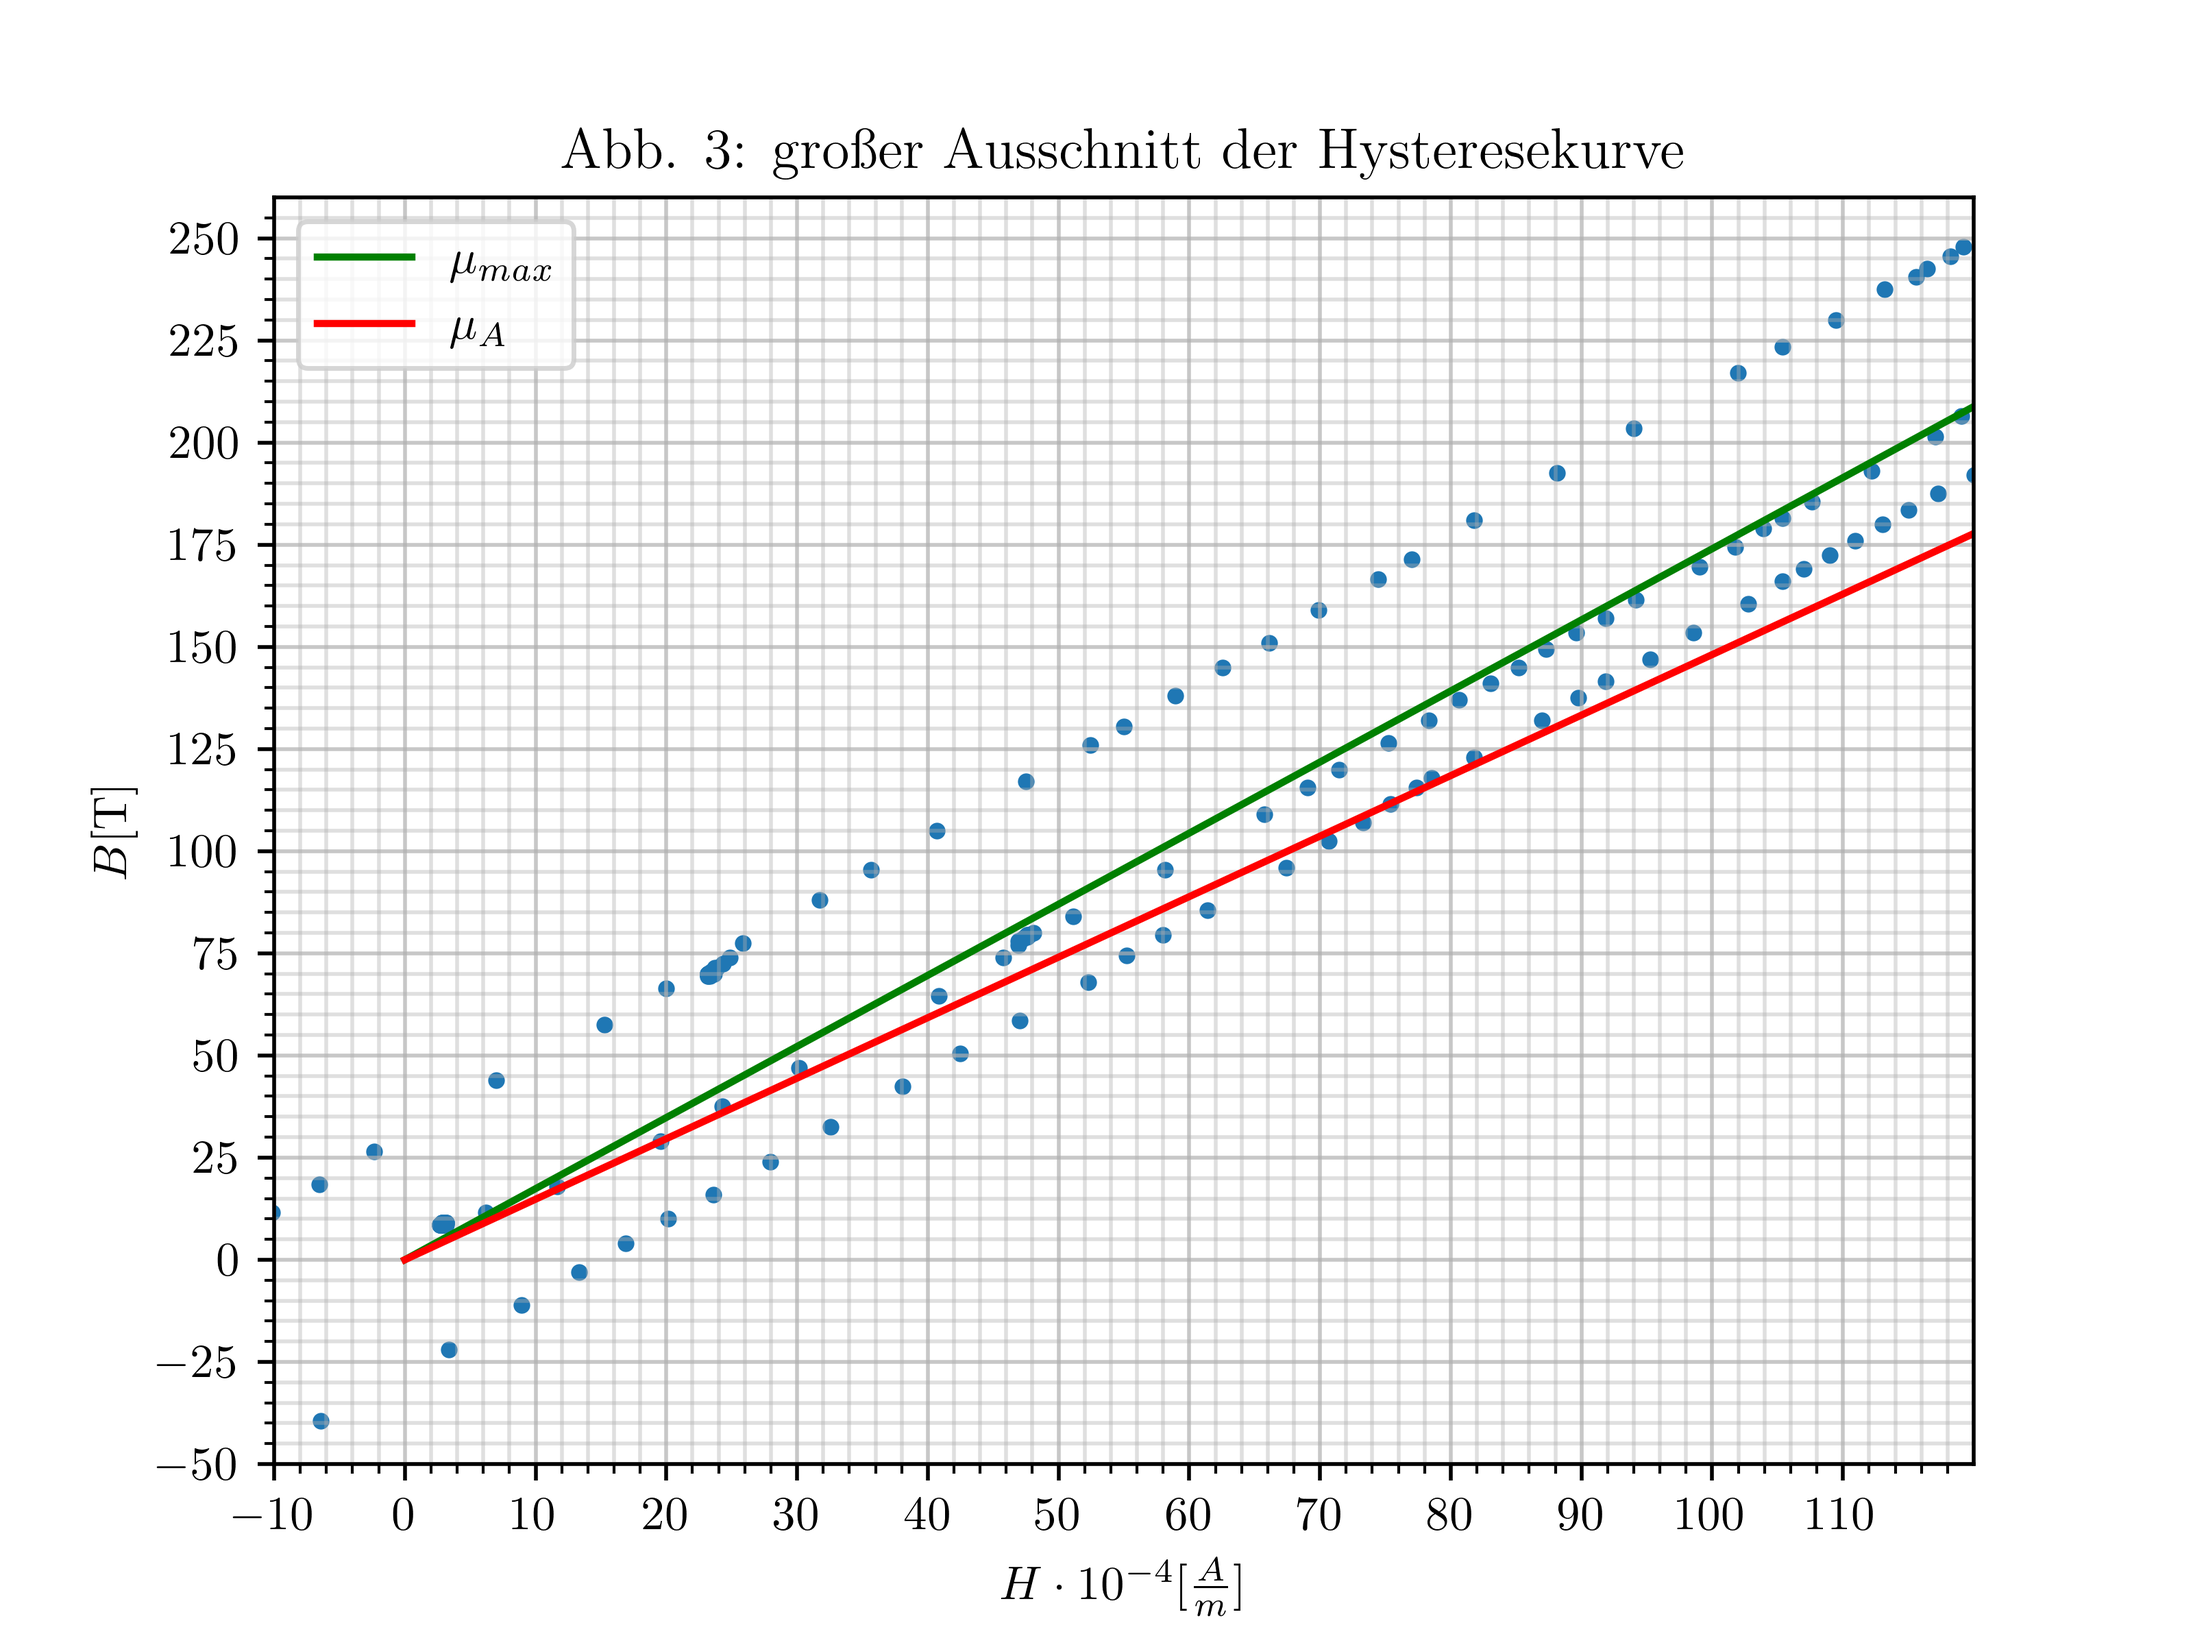
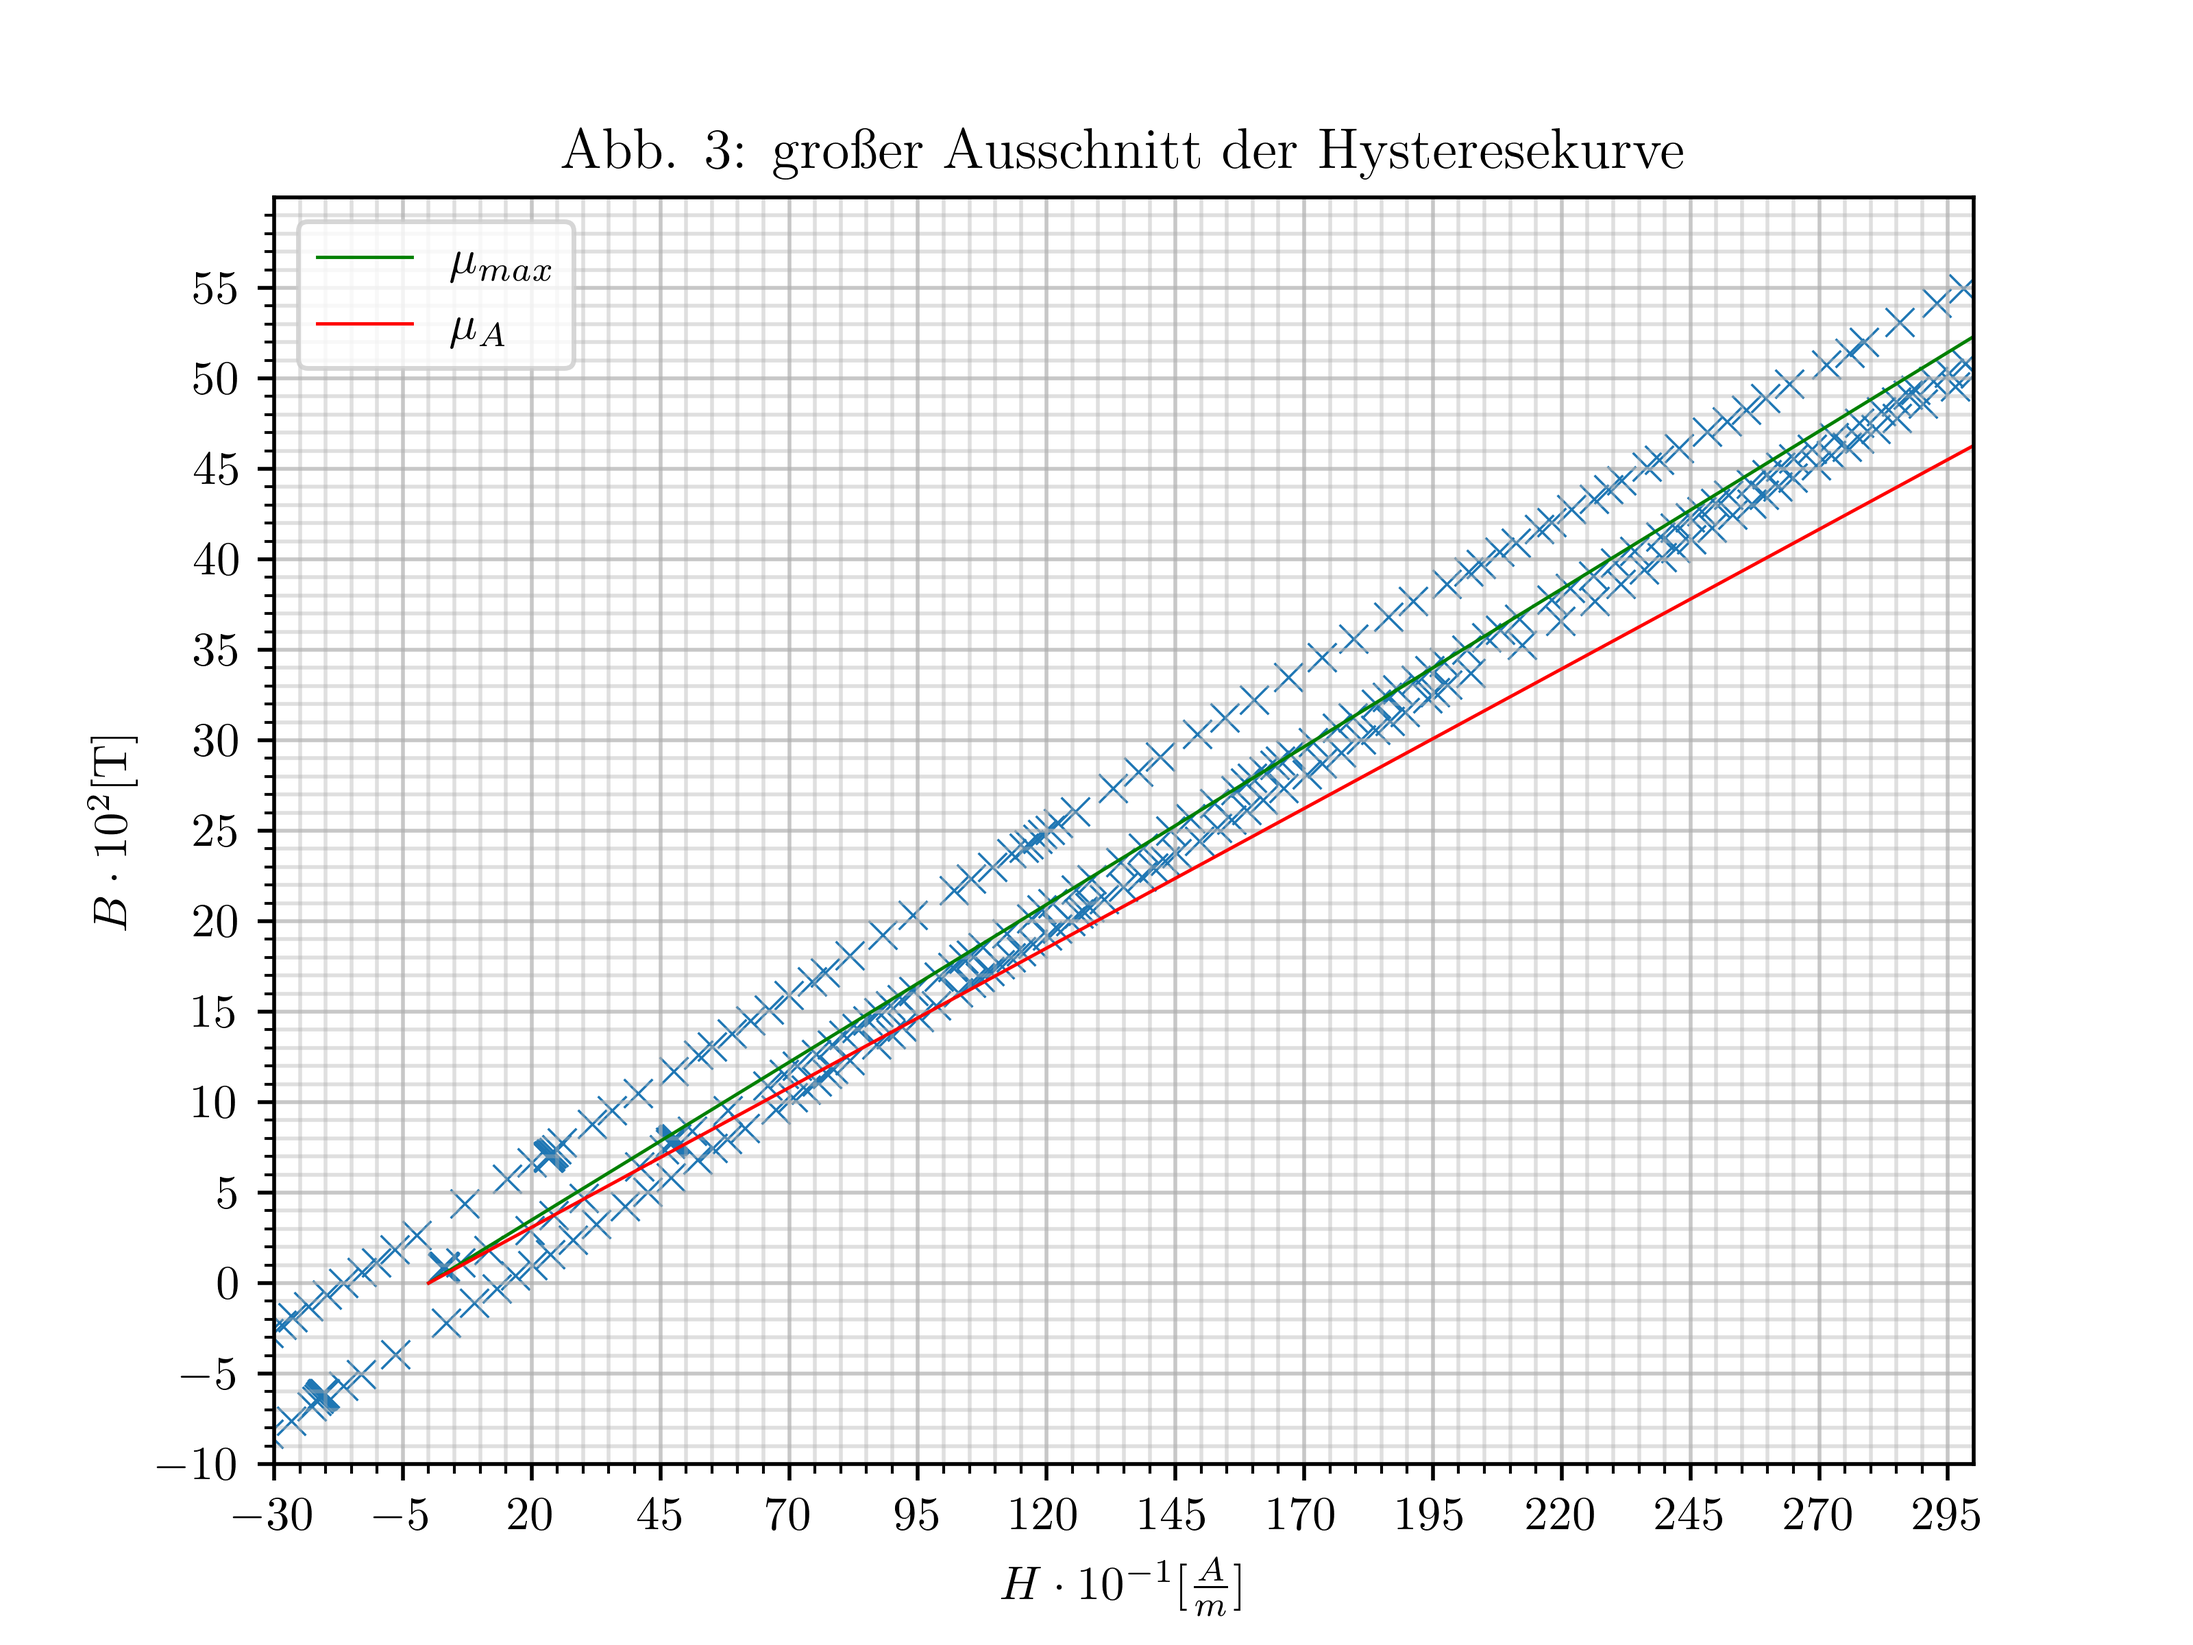
teset

Changed region(s): [[0.0312, 0.125, 0.9062, 0.9375], [0.875, 0.9062, 0.9062, 0.9375]]

diff --git a/Praktikum 2/242/242.py b/Praktikum 2/242/242.py
@@ -4,7 +4,7 @@ import numpy as np
 import matplotlib.pyplot as plt
 plt.rcParams.update({"text.usetex": True,
                      "font.family": "serif"})
-exec = "bc"
+exec = "c"
 
 
 
@@ -59,42 +59,54 @@ def b():
 
 
 def c():
-    data = np.array([pd.read_csv("Drop01.csv").to_numpy(),
-            pd.read_csv("Drop02.csv").to_numpy(),
-            pd.read_csv("Drop03.csv").to_numpy(),
-            pd.read_csv("Drop04.csv").to_numpy(),
-            pd.read_csv("Drop05.csv").to_numpy(),
-            pd.read_csv("Drop06.csv").to_numpy(),
-            pd.read_csv("Drop07.csv").to_numpy(),
-            pd.read_csv("Drop08.csv").to_numpy(),
-            pd.read_csv("Drop09.csv").to_numpy(),
-            pd.read_csv("Drop10.csv").to_numpy(),
-            pd.read_csv("Drop11.csv").to_numpy(),
-            ])
+    #data = np.array([pd.read_csv("Drop01.csv").to_numpy(),
+            #pd.read_csv("Drop02.csv", sep=",").to_numpy(),
+            #pd.read_csv("Drop03.csv").to_numpy(),
+            #pd.read_csv("Drop04.csv").to_numpy(),
+            #pd.read_csv("Drop05.csv").to_numpy(),
+            #pd.read_csv("Drop06.csv").to_numpy(),
+            #pd.read_csv("Drop07.csv").to_numpy(),
+            #pd.read_csv("Drop08.csv").to_numpy(),
+            #pd.read_csv("Drop09.csv").to_numpy(),
+            #pd.read_csv("Drop10.csv").to_numpy(),
+            #pd.read_csv("Drop11.csv").to_numpy(),
+            #])
+    
+    
+    data = np.loadtxt("Messung242_f_3_columns.txt")
+    data[:, [1, 0]] = data[:, [0, 1]]
+    data = data.reshape(12, 3, 3)
+    print(data)
+    dropcount = 12
+    messungperdrop = 3
     
     dt = 0.3
-    dd = 0.025e-3
+    dd = np.zeros_like(data)+0.025e-3
     #dd = 0
-    d = 5e-4
-    velocity = d/data
-    dVelocity = ((dd/data)**2+(d/data**2*dt)**2)**(1/2)
+    d = np.zeros_like(data)+5e-4
+
+    velocity = np.divide(d,data,out=np.zeros_like(d), where=data!=0)
+    dVelocity = ((np.divide(dd,data,out=np.zeros_like(dd), where=data!=0)**2+(np.divide(d,data,out=np.zeros_like(d), where=data!=0))**2*dt)**2)**(1/2)
     predVel0 = velocity[:,:,2]-velocity[:,:,1]
     dPredVel0 = (dVelocity[:,:,2]**2+dVelocity[:,:,1]**2)**(1/2)
+    print(velocity, dVelocity, predVel0, dPredVel0)
+    
     out_data = []
-    for i in range(11):
+    for i in range(dropcount):
         out_data.append(pd.DataFrame({"predVal0": predVel0[i,:], "dPredVel0": dPredVel0[i,:], "v0*2": velocity[i,:,0]*2, "d(v0*2)": dVelocity[i,:,0]*2}))
         out_data[i].to_csv(f"242_Drop{i}_Abschätzung.csv")
     
     
     #abweichung
-    Valid = [True]*11
-    for i in range(11):
+    Valid = [True]*dropcount
+    for i in range(dropcount):
         print(f"Tröpfchen {i+1}") 
-        for k in range(5):
+        for k in range(messungperdrop):
+            
             test1 = (predVel0[i,k]+dPredVel0[i, k])>velocity[i,k,0]*2-dVelocity[i, k,0]*2
             test2 = (predVel0[i, k]-dPredVel0[i,k])<(velocity[i,k,0]*2)+dVelocity[i, k,0]*2
             #print(test1, test2)
-            if test1 and test2:
+            if test1 and test2 and predVel0!=0 and dPredVel0!=0:
                 pass
             else:
                 Valid[i] = False
@@ -102,8 +114,8 @@ def c():
         #abweichung = np.round(((velocity[i,:,2]-velocity[i,:,1])/(velocity[i,:,0]*2)-1)*100, 2)
         #print(abweichung)
         
-    for i in range(11):
-        X = np.tile(np.arange(5),2)
+    for i in range(dropcount):
+        X = np.tile(np.arange(messungperdrop),2)
         Y = np.concatenate([predVel0[i], velocity[i,:,0]*2])
         Yerr = np.concatenate([dPredVel0[i], dVelocity[i,:,0]*2])
         #print(X.shape, Y.shape, Yerr.shape)
@@ -184,6 +196,13 @@ def c():
     outDate = pd.DataFrame(np.array([X, Y, Yerr]).T, columns=[r"$r\cdot 10^{-4}$", r"$q \cdot 10^{14}$ [C]", r"$\delat q \cdot 10^{14}$ [C]"])
     outDate.to_csv("242_Tabelle_5.csv")
     plt.savefig("Bestimmung der korregierten Elementarladung", dpi=500)
+    em = 1.751405 * 1e11
+    dem = 1.6*1e5
+    eee = 1.851*1e-19
+    deee = 0.066*1e-19
+    m = eee/em
+    dm = ((deee/em)**2+(eee/em**2*dem)**2)**(1/2)
+    print(m, dm)
     #plt.show()
     
     

diff --git a/Praktikum 2/240/240.py b/Praktikum 2/240/240.py
@@ -12,7 +12,13 @@ data = pd.read_csv("240_b_Messung_1.txt", sep="\t", decimal=",").to_numpy().T
 print(data.shape)
 
 I = -data[1]
-B = data[2]*1e3
+B = data[2]*1e-3
+
+n_mu_A_dot = 52
+n_mu_max_dot = 101
+
+x_scale = 1e-1
+y_scale = 1e2
 
 N = 500
 l = 477*1e-3
@@ -22,8 +28,8 @@ mu0 = sc.mu_0
 H = N*I/l-d/mu0/l*B
 H = -H
 
-X = H*1e-5
-Y = B*1e-1
+X = H*x_scale
+Y = B*y_scale
 
 
 #plt.scatter(X, Y, marker=".", linewidths=0.)
@@ -31,7 +37,7 @@ Y = B*1e-1
 
 fig, ax = plt.subplots()
 
-ax = olib.setSpace(ax, X, Y, title=r"Abb. 1: gesammte Hysteresekurve", xlabel=r"$H\cdot 10^{-5}$[$\frac{A}{m}$]", ylabel=r"$B\cdot 10^{-1}$[T]")
+ax = olib.setSpace(ax, X, Y, title=r"Abb. 1: gesammte Hysteresekurve", xlabel=r"$H\cdot 10^{-1}$[$\frac{A}{m}$]", ylabel=r"$B\cdot 10^{2}$[T]")
 ax.plot(X, Y, linewidth=1)
 
 
@@ -41,17 +47,23 @@ plt.savefig("Abb_1_Hysteresekurve.png", dpi=500)
 fig, ax = plt.subplots()
 
 mask = H>0
-X = H*1e-5
-Y = B*1e-1
-a1 = 29.894/17.1789
-a2 = 29.002/19.5815
-X2 = np.linspace(0, X.max())
+X = H*x_scale
+Y = B*y_scale
+mu_A_a = B[n_mu_A_dot]/H[n_mu_A_dot]
+mu_A = mu_A_a/sc.mu_0
+mu_max_a = B[n_mu_max_dot]/H[n_mu_max_dot]
+mu_max = mu_max_a/sc.mu_0
+print(f"mu_A: {mu_A}, mu_max: {mu_max}")
+X2 = np.linspace(0, H.max())*x_scale
 
-ax = olib.setSpace(ax, H[mask]*1e-5, B[mask]*1e-1, title=r"Abb. 2: kleiner Ausschnitt der Hysteresekurve", xlabel=r"$H\cdot 10^{-5}$[$\frac{A}{m}$]", ylabel=r"$B\cdot 10^{-1}$[T]")
-ax.scatter(X, Y, linewidths=0.5, marker=".")
-ax.plot(X2, X2*a1, color="g", label=r"$\mu_{max}$")
-ax.plot(X2, X2*a2, color="r", label=r"$\mu_A$")
+ax = olib.setSpace(ax, H[mask]*x_scale, B[mask]*y_scale, title=r"Abb. 2: kleiner Ausschnitt der Hysteresekurve", xlabel=r"$H\cdot 10^{-1}$[$\frac{A}{m}$]", ylabel=r"$B\cdot 10^{2}$[T]")
+#ax.scatter(X, Y, linewidths=0.5, marker=".")
+ax.plot(X, Y, linewidth=1)
+ax.plot(X2, X2*mu_max_a*y_scale*1e1, color="g", label=r"$\mu_{max}$", linewidth=0.7)
+ax.plot(X2, X2*mu_A_a*y_scale*1e1, color="r", label=r"$\mu_A$", linewidth=0.7)
 ax.legend()
+
+
 
 
 plt.savefig("Abb_2_Hysteresekurve.png", dpi=500)
@@ -59,20 +71,18 @@ plt.savefig("Abb_2_Hysteresekurve.png", dpi=500)
 
 
 fig, ax = plt.subplots()
-
+print(H)
 mask = H>0
-mask = mask*(H<1e6)
+mask = mask*(H<2.5e3)
 #print(np.array(-H).max())
-X = H*1e-4
-Y = B*1e-0
-print(X)
-ax = olib.setSpace(ax, H[mask]*1e-4, B[mask]*1e-0, title=r"Abb. 3: großer Ausschnitt der Hysteresekurve", xlabel=r"$H\cdot 10^{-4}$[$\frac{A}{m}$]", ylabel=r"$B$[T]")
-ax.scatter(X, Y, linewidths=0.5, marker=".")
-X2 = X2*1e1
-ax.plot(X2, X2*a1, color="g", label=r"$\mu_{max}$")
-ax.plot(X2, X2*a2, color="r", label=r"$\mu_A$")
+X = H*x_scale
+Y = B*y_scale
+ax = olib.setSpace(ax, H[mask]*x_scale, B[mask]*y_scale, title=r"Abb. 3: großer Ausschnitt der Hysteresekurve", xlabel=r"$H\cdot 10^{-1}$[$\frac{A}{m}$]", ylabel=r"$B\cdot 10^{2}$[T]")
+ax.scatter(X, Y, linewidths=0.5, marker="x")
+ax.plot(X2, X2*mu_max_a*y_scale*1e1, color="g", label=r"$\mu_{max}$", linewidth=0.7)
+ax.plot(X2, X2*mu_A_a*y_scale*1e1, color="r", label=r"$\mu_A$", linewidth=0.7)
 ax.legend()
-print(a1*1e-4/sc.mu_0, a2*1e-4/sc.mu_0)
+
 
 
 plt.savefig("Abb_3_Hysteresekurve.png", dpi=500)
